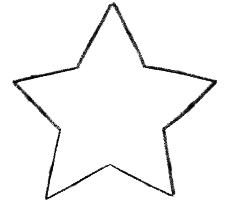
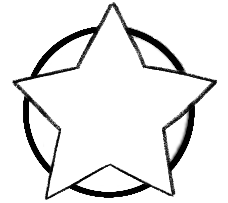
Switch the header to use an image for the circled stars and add diamonds for stress and exhaustion

diff --git a/magi-knight-awakening/src/components/ImageBackedLabel.vue b/magi-knight-awakening/src/components/ImageBackedLabel.vue
@@ -35,7 +35,7 @@
 
 <style>
 .image-label{
-  --_containerSize: 50px;
+  --_containerSize: 70px;
   display: inline-flex;
   gap: var(--tiny-gap);
 }
@@ -45,8 +45,6 @@
   place-items: center;
   width:var(--_containerSize);
   height: var(--_containerSize);
-  border-radius: 100%;
-  border: 2px solid var(--borderColor);
   grid-template-areas: 'content';
 }
 .image-container > * {
@@ -63,37 +61,22 @@
   background-image: var(--crownImage);
   grid-area: content;
 }
-.star:before{
-  --_starWeight: 200;
-  grid-area: content;
-  z-index: -1;
-  content: 'star';
-  font-family: 'Material Symbols Outlined';
-  font-weight: normal;
-  font-style: normal;
-  font-size: 100px;  /* Preferred icon size */
-  display: inline-block;
-  line-height: 1;
-  text-transform: none;
-  letter-spacing: normal;
-  word-wrap: normal;
-  white-space: nowrap;
-  direction: ltr;
-  color: var(--borderColor);
-  position: absolute;
-  font-variation-settings:
-    'FILL' 0,
-    'wght' var(--_starWeight);
-}
-.dark .star:before{
-  font-variation-settings:
-    'FILL' 1,
-    'wght' var(--_starWeight);
-}
 .image-label input{
   width: 100%;
   background-color: transparent;
   border: none;
   text-align: center;
+}
+.star{
+  background-image: var(--starImage);
+  background-size: 110%;
+  background-position: right -5px top -1px;
+  background-repeat: no-repeat;
+}
+.diamond{
+  background-image: var(--diamondImage);
+  background-size: 110%;
+  background-position: right -5px top -1px;
+  background-repeat: no-repeat;
 }
 </style>

diff --git a/magi-knight-awakening/src/rollTemplates/styles/common.scss b/magi-knight-awakening/src/rollTemplates/styles/common.scss
@@ -39,6 +39,18 @@ rolltemplate.magiknight-template {
   --crownImage: url('./crown.png');
   --swordImage: url('./sword.png');
   --abilityImage: url('./ability-circle.png');
+  --diamondImage: url('./diamond.png');
+  --starImage: url('./star.png');
+  --studentShieldImage: url('./student-shield.png');
+  --moveImage: url('./move.png');
+  --studiedImage: url('./studied.png');
+  --restedImage: url('./rested.png');
+  --attackImage: url('./attack.png');
+  --studentDamageImage: url('./student-damage.png');
+  --magiKnightDamageImage: url('./magi-knight-damage.png');
+  --bottleImage: url('./bottle.png');
+  --magiKnightShieldImage: url('./magi-knight-shield.png');
+  --crystalImage: url('./crystal.png');
 
   --moon1Image:url('./moon1.png');
   --moon2Image:url('./moon2.png');

diff --git a/magi-knight-awakening/src/assets/variables.css b/magi-knight-awakening/src/assets/variables.css
@@ -30,6 +30,18 @@ html{
   --crownImage: url('./crown.png');
   --swordImage: url('./sword.png');
   --abilityImage: url('./ability-circle.png');
+  --diamondImage: url('./diamond.png');
+  --starImage: url('./star.png');
+  --studentShieldImage: url('./student-shield.png');
+  --moveImage: url('./move.png');
+  --studiedImage: url('./studied.png');
+  --restedImage: url('./rested.png');
+  --attackImage: url('./attack.png');
+  --studentDamageImage: url('./student-damage.png');
+  --magiKnightDamageImage: url('./magi-knight-damage.png');
+  --bottleImage: url('./bottle.png');
+  --magiKnightShieldImage: url('./magi-knight-shield.png');
+  --crystalImage: url('./crystal.png');
 
   --moon1Image:url('./moon1.png');
   --moon2Image:url('./moon2.png');

diff --git a/magi-knight-awakening/src/components/BaseSplit.vue b/magi-knight-awakening/src/components/BaseSplit.vue
@@ -21,14 +21,14 @@ const attributes = [
   },
   {
     name: 'stress',
-    image: 'star',
+    image: 'diamond',
     crown: false,
     text: 'Stress',
     readonly: false
   },
   {
     name: 'exhaustion',
-    image: 'star',
+    image: 'diamond',
     crown: false,
     text: 'Exhaustion',
     readonly: false
